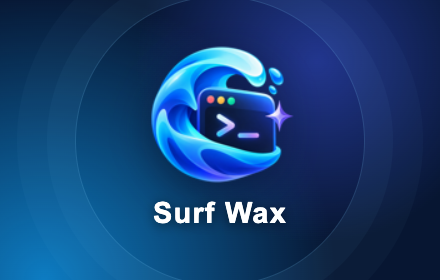
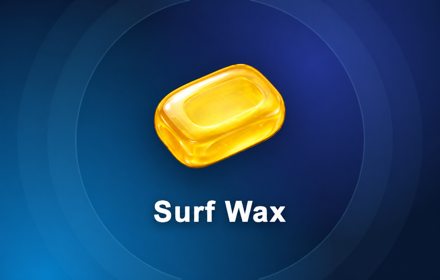
Remove automatic publishing and set version 1.0.0 (#15)
* Remove automatic publishing and set version 1.0.0

* Address release provenance review feedback

* Harden custom release directory handling

* Make local release packaging self-contained

* Handle cross-platform release archive edges

* Use new Surf Wax application icon

* Harden release preflight and refresh store branding

* Keep release artifacts out of Vite public input

* Make release inputs and archive order deterministic

* Constrain release build paths and environment

* Harden local release provenance

Changed region(s): [[0.325, 0.1429, 0.6795, 0.6571], [0.3545, 0.7143, 0.65, 0.8]]

diff --git a/docs/formalization-acceptance.md b/docs/formalization-acceptance.md
@@ -23,7 +23,7 @@
 | 5. 可靠请求与自动压缩 | 可恢复错误无限重试，退避单次不超过 10 秒，停止可中断退避。SSE 断流从持久化部分文本和工具结果续接，工具调用按请求 phase 区分。剩余容量不足 20% 或 Provider 拒绝超长上下文时自动摘要；保留分支/source/summary digest，超长源先分块再合并。失败保留原历史并提供重试，取消不写半成品 checkpoint；旧手动 gate 自动迁移。未匹配模型窗口使用 256K，首条用户消息的工具目录前缀按其持久化版本恢复。 | [请求与流恢复](../src/agent/model.ts)、[SSE 恢复](../src/agent/stream-recovery.ts)、[自动压缩](../src/agent/context-choice.ts)、[压缩契约](../src/agent/compaction.ts)、[工具目录前缀](../src/agent/tool-catalog.ts)、[上下文 E2E](../e2e/context.spec.ts)。真实断流与副作用未重放由原生侧栏用例验证。 |
 | 6. 浏览器操作语义 | 专用命令、act 与 run-code 的 page facade 共用浏览器执行层。按操作检查可见、稳定、启用、可编辑与接收输入条件；严格唯一匹配，ref 节点失效明确报错。支持跨源 iframe、open Shadow DOM、隐藏 file input/filechooser、组合键及跨命令保留输入状态。截图/PDF 默认是内部产物，坐标按观察信息映射；act 部分失败保留已完成步骤。 | [共享自动化](../src/chrome/automation.ts)、[执行器](../src/chrome/executor.ts)、[自动化 E2E](../e2e/automation.spec.ts)、[page facade 等待约定](tools.md)。DPR=2、框架与输入场景必须以最终矩阵实测为准。 |
 | 7. 只读诊断、性能与 UX | 保留请求列表/详情、请求头/body、响应头/body与 console。诊断内存缓存设上限，原始 CDP 事件保留在日志，查询支持分页并从日志补读。UI 按 animation frame 合并流式更新，保留完整 GFM、LaTeX 与语法高亮；长会话虚拟化，工具结果展开时加载，完整错误仍可查看。会话编辑、分支、归档、搜索与运行中切换约束保留。 | [只读诊断](../src/chrome/diagnostics.ts)、[诊断测试](../src/chrome/diagnostics.test.ts)、[渲染 E2E](../e2e/rendering.spec.ts)、[本地性能测试](../e2e/performance.spec.ts)。本地固定环境测量见下表与 performance-results.json。 |
-| 8. 可维护升级发布 | package.json 为版本唯一来源；lockfile、Manifest、七权限、入口与移除 host 均由构建验证，主入口 JS 上限为 2,000,000B。E2E 按域拆分并共享夹具，失败保留 profile；真实 0.2.0 fixture 验证升级配置、日志 ID 与用户脚本启停状态。CI 验证 Chrome 138/current 功能矩阵；性能仅本地。本地版本包同 SHA 可复用、不同 SHA 拒绝覆盖并原子发布；正式 v* 发布不覆盖，ZIP 有 SHA-256；autobuild 经验证后更新固定测试渠道资产，标记 prerelease 且不占 Latest。 | [构建与版本校验](../scripts/validate-build.mjs)、[历史升级 fixture](../scripts/prepare-upgrade-fixture.mjs)、[发布工作流](../.github/workflows/autobuild.yml)、[ZIP 打包](../scripts/package-release.mjs)、[商店材料](store-listing.md)、[隐私政策](../PRIVACY.md)、[更新记录](../CHANGELOG.md)。CI 浏览器门禁直接安装 verify 已打包且经 checksum 校验的 ZIP，不重新构建；工作流配置不代表正式发布或商店审核已经完成。 |
+| 8. 可维护升级发布 | package.json 为版本唯一来源；lockfile、Manifest、七权限、入口与移除 host 均由构建验证，主入口 JS 上限为 2,000,000B。E2E 按域拆分并共享夹具，失败保留 profile；真实 0.2.0 fixture 验证升级配置、日志 ID 与用户脚本启停状态。CI 验证 Chrome 138/current 功能矩阵；性能仅本地。本地版本包同 SHA 可复用、不同 SHA 拒绝覆盖并原子发布；正式 v* 发布不覆盖，ZIP 有 SHA-256；当时的 autobuild 会更新固定测试渠道资产。该自动发布流程现已移除。 | [构建与版本校验](../scripts/validate-build.mjs)、[历史升级 fixture](../scripts/prepare-upgrade-fixture.mjs)、[ZIP 打包](../scripts/package-release.mjs)、[商店材料](store-listing.md)、[隐私政策](../PRIVACY.md)、[更新记录](../CHANGELOG.md)。正式发布或商店审核均未执行。 |
 
 ## 工具输入预算的实际测量
 
@@ -74,7 +74,7 @@ Chrome 138 使用 `pagehide` 与 owner Port 断开处理关闭；有 `sidePanel.
 | FIFO 与原生关闭 race 回归 | 8/8 通过；两个浏览器各重复两轮，未开启失败重试 | `.dev/formalization-evidence/repeated-race-regressions.log` |
 | 本地性能 | 2/2 通过；定位与动作 p95 58.1ms，流式/滚动 p95 16.7ms，输入 p95 13.0ms，恢复 412ms | [performance-results.json](performance-results.json)；原始样本 `.dev/formalization-evidence/performance-reviewed/` |
[1 lines of base64/hex data omitted]
-| GitHub 渠道与商店发布 | 远端每次运行独立验证其 ZIP；对应提交结果以 Actions 为准，商店尚未发布 | [GitHub Actions](https://github.com/notCorwin/SurfWax/actions/workflows/autobuild.yml)；历史证据见下文 |
+| GitHub 渠道与商店发布 | 历史自动发布流程已移除，商店尚未发布 | 历史证据见下文 |
 
 Canonical IndexedDB 证据按仓库约定保存在 `../.dev/chromium-profile/Default/IndexedDB/`；隔离 profile 测试结束后复制到该位置，失败 profile 不先删除。trace、失败截图和性能 JSON 应一并保留，记录浏览器实际版本、project、提交、viewport、DPR 与运行环境。
 
@@ -96,6 +96,6 @@ FIFO 首次失败由已经排队的标题请求造成：用户人工命名后，
 - **原生生命周期覆盖**：用例覆盖 SSE 断流续接且副作用只执行一次、双侧栏互斥与非 owner 关闭、owner 关闭后排队指令未执行、部分 act 结果恢复、等待下载授权时关闭后复用原产物。实际终止 MV3 worker 的用例核查按键释放、移除页面保护、幂等补齐工具与运行终态、新任务可启动；当前 ZIP 的两版浏览器用例已通过；每种崩溃时间点尚未做穷举。
 - **已发出的副作用**：取消可以阻止后续和排队指令，不能撤回已经发送的 CDP 输入、网页提交、下载或服务端行为。终态日志去重与请求续接不构成外部副作用 exactly-once 保证；断线时结果不明确的动作应先观察页面再决定后续操作，不能声称它已回滚。
 - **性能范围**：本地固定环境测量流式与长日志场景的 rAF 间隔 p95 ≤20ms、input 事件到下一 rAF p95 ≤50ms；语义定位+动作 p95 ≤100ms。保留长日志恢复、DOM 数量及原有交互门槛。结果是此环境的 p95，不能理解为每一帧都在 20ms 内；GitHub Actions 不运行性能测试。
-- **发布证据**：CI 配置、版本 ZIP 与商店材料已经具备；远端工作流以对应提交的 Actions 结果为准，正式 tag 与商店提交尚未执行。现有商店图片属于既有素材，不自动证明与 0.3.0 界面一致。
+- **发布证据**：历史版本 ZIP 与商店材料已经具备；自动发布流程现已移除，正式发布与商店提交尚未执行。现有商店图片属于既有素材，不自动证明与 0.3.0 界面一致。
 
 最终结论以“最终验证结果”表为准。正式版本 tag 与商店提交须在人工授权气泡、素材核对及远端发布门禁通过后进行；本轮交付为可独立安装的候选版本包。

diff --git a/README.md b/README.md
@@ -1,6 +1,5 @@
 # Surf Wax
 
-[![Continuous Delivery](https://github.com/notCorwin/SurfWax/actions/workflows/autobuild.yml/badge.svg)](https://github.com/notCorwin/SurfWax/actions/workflows/autobuild.yml)
 [![Version](https://img.shields.io/github/package-json/v/notCorwin/SurfWax)](package.json)
 [![Chrome 138+](https://img.shields.io/badge/Chrome-138%2B-4285F4?logo=googlechrome&logoColor=white)](https://www.google.com/chrome/)
 
@@ -117,7 +116,7 @@ npm run docs:check  # 检查生成的工具文档是否最新
 npm run verify:local
 ```
 
-完整验证要求 Node 24，会安装 Chrome for Testing 138 和当前 Stable，并执行文档、SDK、类型、构建、单元、E2E 与性能检查。所有浏览器测试均以 Headless 模式运行；GitHub Actions 只负责 CD。
+完整验证要求 Node 24，会安装 Chrome for Testing 138 和当前 Stable，并执行文档、SDK、类型、构建、单元、E2E 与性能检查。所有浏览器测试均以 Headless 模式运行；仓库当前不配置 GitHub Actions 或自动发布。
 
 其他维护命令见 [package.json](package.json)。浏览器工具 API 由源码 registry 生成，详见 [工具参考](docs/tools.md)。
 

diff --git a/CHANGELOG.md b/CHANGELOG.md
@@ -14,7 +14,7 @@
 - 将工具目录追加到新会话系统提示词并记录快照；旧会话在成功摘要后迁移，上下文计入系统和 schema，未匹配时回退 256,000 tokens。
 - SAP 改为真实增量 SSE，Vertex 服务账号鉴权支持重试及 Abort；全部 Models.dev SDK 加入流式与工具协议契约。
 - 页面阻断监听器在智能体原生输入期间保持安装，按 run 与时间戳授权；覆盖导航和 iframe。
-- 新增 Node 24 本地完整 CI 与 Chrome 138/current 120Hz 渲染 trace 验收；GitHub Actions 仅负责 CD。工具参考迁至 docs/tools.md。
+- 新增 Node 24 本地完整 CI 与 Chrome 138/current 120Hz 渲染 trace 验收；当前不配置 GitHub Actions 或自动发布。工具参考迁至 docs/tools.md。
 
 - downloads 改为必需权限，安装时授予；明确保存文件时直接下载。
 - 移除首次下载授权按钮、等待队列及暂停操作超时的逻辑；下载失败仍保留内部产物供再次保存。

diff --git a/docs/alignment-acceptance.md b/docs/alignment-acceptance.md
@@ -1,6 +1,6 @@
 # Surf Wax 需求对齐验收
 
-`npm run verify:local` 是提交前的完整 CI 入口，要求 Node 24。它校验生成文档、live Models.dev 的 SDK 覆盖差集、类型、构建、Manifest、单测，并在 Chrome for Testing 138 和当前 Stable 分别运行全部功能 E2E 与性能检查。GitHub Actions 仅负责 CD 的构建打包、SHA-256 校验、master Autobuild 和版本标签的不可变发布。
+`npm run verify:local` 是提交前的完整 CI 入口，要求 Node 24。它校验生成文档、live Models.dev 的 SDK 覆盖差集、类型、构建、Manifest、单测，并在 Chrome for Testing 138 和当前 Stable 分别运行全部功能 E2E 与性能检查。仓库当前不配置 GitHub Actions 或自动发布；版本包只能从干净工作区手动生成。
 
 ## 运行时与日志
 

diff --git a/docs/chrome-web-store.md b/docs/chrome-web-store.md
@@ -2,4 +2,4 @@
 
 当前商店文案、八项必需权限（含 downloads）用途、数据与执行功能说明和审核材料统一维护于 [商店材料草稿](store-listing.md)。当前实现与最近一次完整测试证据见 [需求对齐验收](alignment-acceptance.md)；0.3.0 候选包的结果保留在[历史正式化验收记录](formalization-acceptance.md)。
 
-版本以 package.json 为唯一来源，构建时写入 Manifest。正式 v* 版本 ZIP 与 SHA-256 不覆盖；autobuild 是经过验证后更新的 prerelease 测试渠道，不占用 Latest。文档和工作流本身不代表商店审核或最终验收已完成。
+版本以 package.json 为唯一来源，构建时写入 Manifest。当前仅保留本地 ZIP 与 SHA-256 打包能力，不配置自动发布，也尚未提交商店审核。
